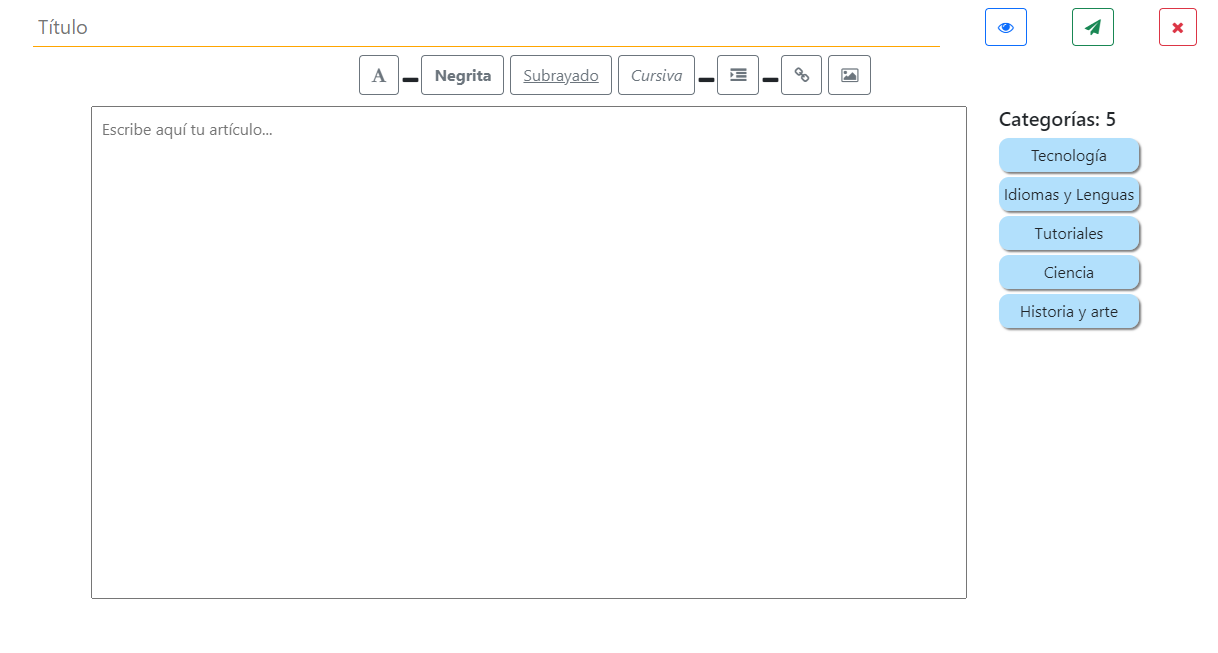
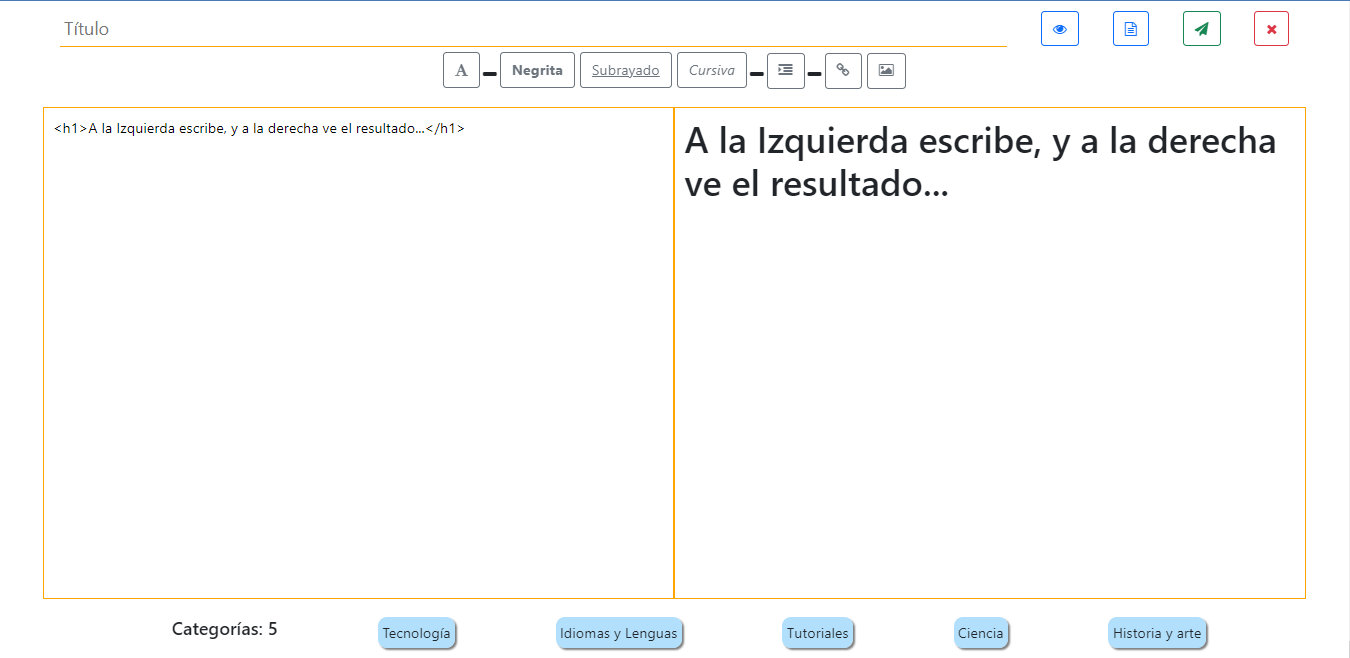
Avances

diff --git a/public/blog/articulos/index.html b/public/blog/articulos/index.html
@@ -258,9 +258,10 @@
                     <li id="botonesUl">
                         <span>Estos son los botones que hay en la esquina:</span>
                         <ul>
-                            <li>El botón de la izquierda es para ver la vista previa</li>
-                            <li>El de en medio es para guardar su artículo</li>
-                            <li>El de la derecha es para cerrar el documento</li>
+                            <li>El primer botón muestra solamente la vista previa</li>
+                            <li>El segundo botón muestra solamente el escrito</li>
+                            <li>El tercer botón es para guardar su artículo</li>
+                            <li>El botón de la derecha es para cerrar el documento</li>
                         </ul>
                         <br>
                         <img src=" ../img/btns.png">
@@ -292,6 +293,20 @@
             </div>
             <button id="tercerSiguiente" class="btn btn-primary">
                 Siguiente <i class="fa fa-fighter-jet" aria-hidden="true"></i>
+            </button>
+        </div>
+        <div class="aTutoriales hidden">
+            <h2>Solo presione en el botón de abajo y podrá ver tutoriales para que le saque el mayor provecho a Blogi:
+            </h2>
+            <hr>
+            <a class="w-75" href="https://blogi-node.herokuapp.com/posts/arts.html#6186efa6cf94729df2c6fa9e">
+                <button style="font-size: 22px;" id="verTutos" class="btn btn-primary w-100">
+                    Ver tutoriales <i class="fa fa-fighter-jet" aria-hidden="true"></i>
+                </button>
+            </a>
+            <br>
+            <button id="ultimoSiguiente" class="btn btn-primary w-75">
+                OK <i class="fa fa-fighter-jet" aria-hidden="true"></i>
             </button>
         </div>
     </div>

diff --git a/public/blog/articulos/js/indexBlog.js b/public/blog/articulos/js/indexBlog.js
@@ -1291,10 +1291,12 @@ setTimeout(() => {
                 const intro = document.querySelector('.intro');
                 const crearlo = document.querySelector('.crearlo');
                 const descripciones = document.querySelector('.descripciones');
+                const aTutoriales = document.querySelector('.aTutoriales');
 
                 const primerSiguiente = document.getElementById('primerSiguiente');
                 const segundoSiguiente = document.getElementById('segundoSiguiente');
                 const tercerSiguiente = document.getElementById('tercerSiguiente');
+                const ultimoSiguiente = document.getElementById('ultimoSiguiente');
 
                 const nombreDeBlogCrear = document.getElementById('nombreDeBlogCrear');
                 const descDeBlogCrear = document.getElementById('descDeBlogCrear');
@@ -1341,7 +1343,11 @@ setTimeout(() => {
 
                     tercerSiguiente.onclick = () => {
                         descripciones.classList.add('hidden');
-                        introDeBlog.classList.add('hidden');
+                        aTutoriales.classList.toggle('hidden');
+                    }
+
+                    ultimoSiguiente.onclick = () => {
+                        introDeBlog.classList.toggle('hidden');
                         blog.classList.toggle('hidden');
                     }
                 }

diff --git a/public/blog/articulos/css/index.css b/public/blog/articulos/css/index.css
@@ -638,7 +638,7 @@ body.dark .toggle.responsive {
     font-size: 22px;
     width: calc(50% - 1.6rem);
     padding: 5px;
-    margin: 0;
+    margin: 5;
 }
 
 .tusBlogs > .crearBlog > a {
@@ -787,6 +787,7 @@ body.dark .toggle.responsive {
     flex-direction: column;
     align-items: center;
     justify-content: center;
+    z-index: 1000;
 }
 
 .creacionDeBlog > .formulario {
@@ -1504,6 +1505,27 @@ df-messenger {
     margin-left: 10px;
 }
 
+.aTutoriales {
+    width: 75%;
+    display: flex;
+    flex-direction: column;
+    align-items: center;
+    justify-content: center;
+    padding: 20px;
+    background: white;
+    color: black;
+    box-shadow: inset 0px 0px 8px 3px rgb(0 0 0 / 30%);
+}
+
+.aTutoriales > h2 {
+    text-align: center;
+    padding: 10px;
+    margin: 10px 0;
+}
+
+.aTutoriales > button {
+    font-size: 20px;
+}
 
 
 

diff --git a/public/posts/css/arts.css b/public/posts/css/arts.css
@@ -156,8 +156,8 @@ body.dark .categoriasDeArticulo {
 
 .buscador {
     background-color: #00000021;
-    padding: 5px;
     border-radius: 10px;
+    padding: 10px;
 }
 
 .buscador > input:focus-visible {
@@ -920,5 +920,35 @@ df-messenger {
         margin: 5px 0px;
         padding: 20px;
         border-bottom: 1px solid white;
+    }
+}
+
+@media (max-width: 465px) {
+    .intro {
+        height: 400px;
+    }
+
+    .intro > .left {
+        margin-top: 25px;
+    }
+}
+
+@media (max-width: 380px) {
+    .intro {
+        height: 450px;
+    }
+
+    .intro > .left {
+        margin-top: 25px;
+    }
+}
+
+@media (max-width: 350px) {
+    .intro {
+        height: 525px;
+    }
+
+    .intro > .left {
+        margin-top: 25px;
     }
 }

diff --git a/public/posts/js/arts.js b/public/posts/js/arts.js
@@ -102,6 +102,20 @@ btnBuscador.addEventListener('click', () => {
     }, 500);
 })
 
+buscar.addEventListener('keypress', (e) => {
+    if (e.charCode === 13) {
+        spinner.classList.toggle('hidden');
+
+        if (buscar.value === '') {
+            location.reload();
+        }
+
+        setTimeout(() => {
+            location.href = buscadorUrl + buscar.value;
+        }, 500);
+    }
+})
+
 // Poner articulos de usuario
 const articulosUl = document.querySelector('.articulosUl');
 

diff --git a/public/busquedas/index.js b/public/busquedas/index.js
@@ -69,6 +69,20 @@ btnBuscador.addEventListener('click', () => {
     }, 500);
 })
 
+buscar.addEventListener('keypress', (e) => {
+    if (e.charCode === 13) {
+        spinner.classList.toggle('hidden');
+
+        if (buscar.value === '') {
+            location.reload();
+        }
+
+        setTimeout(() => {
+            location.href = buscadorUrl + buscar.value;
+        }, 500);
+    }
+})
+
 // Modo oscuro
 const checkbox = document.querySelector('#check');
 

diff --git a/public/auth.html b/public/auth.html
@@ -23,7 +23,7 @@
     <div class="auth">
         <div class="googleAuth">
             <div class="g-signin2 googleButton" data-onsuccess="onSignIn"></div>
-            <button class="btn btn-outline-primary w-100" id="cerrarSesion">Cerrar sesión</button>
+            <button class="btn btn-outline-primary w-100" id="cerrarSesion">Cerrar sesión con Google</button>
         </div>
 
         <svg xmlns="http://www.w3.org/2000/svg" style="display: none;">

diff --git a/public/busquedas/index.css b/public/busquedas/index.css
@@ -130,8 +130,8 @@ body.dark .articulo {
 
 .buscador {
     background-color: #00000021;
-    padding: 5px;
     border-radius: 10px;
+    padding: 10px;
 }
 
 .buscador > input:focus-visible {
